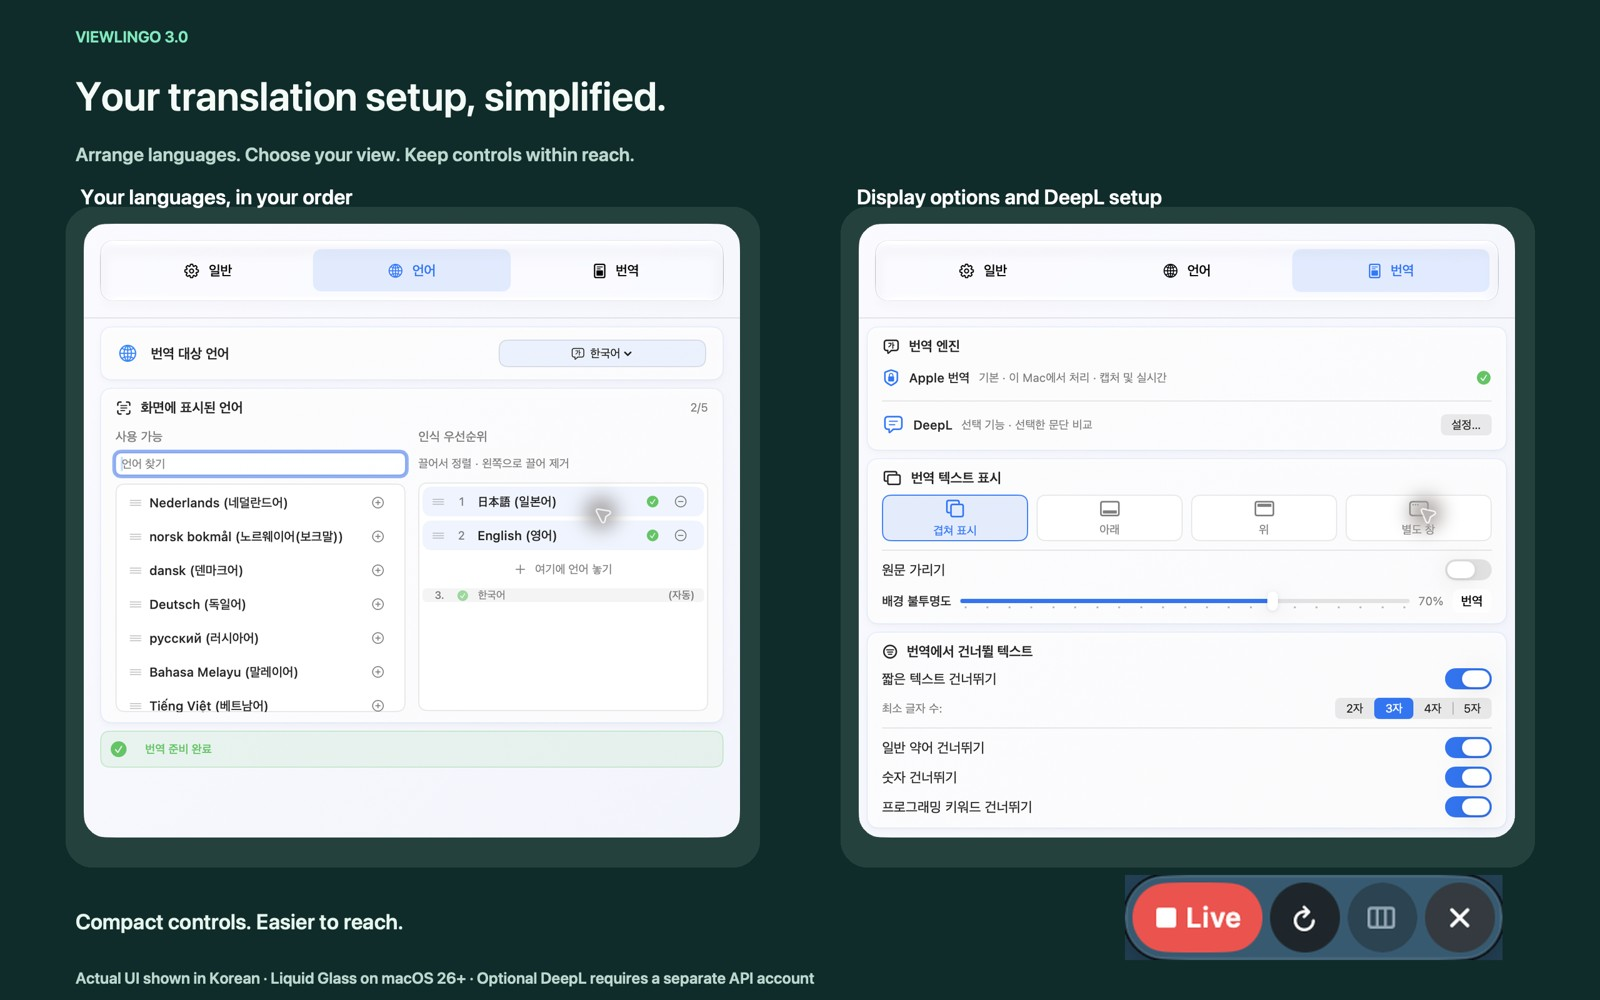
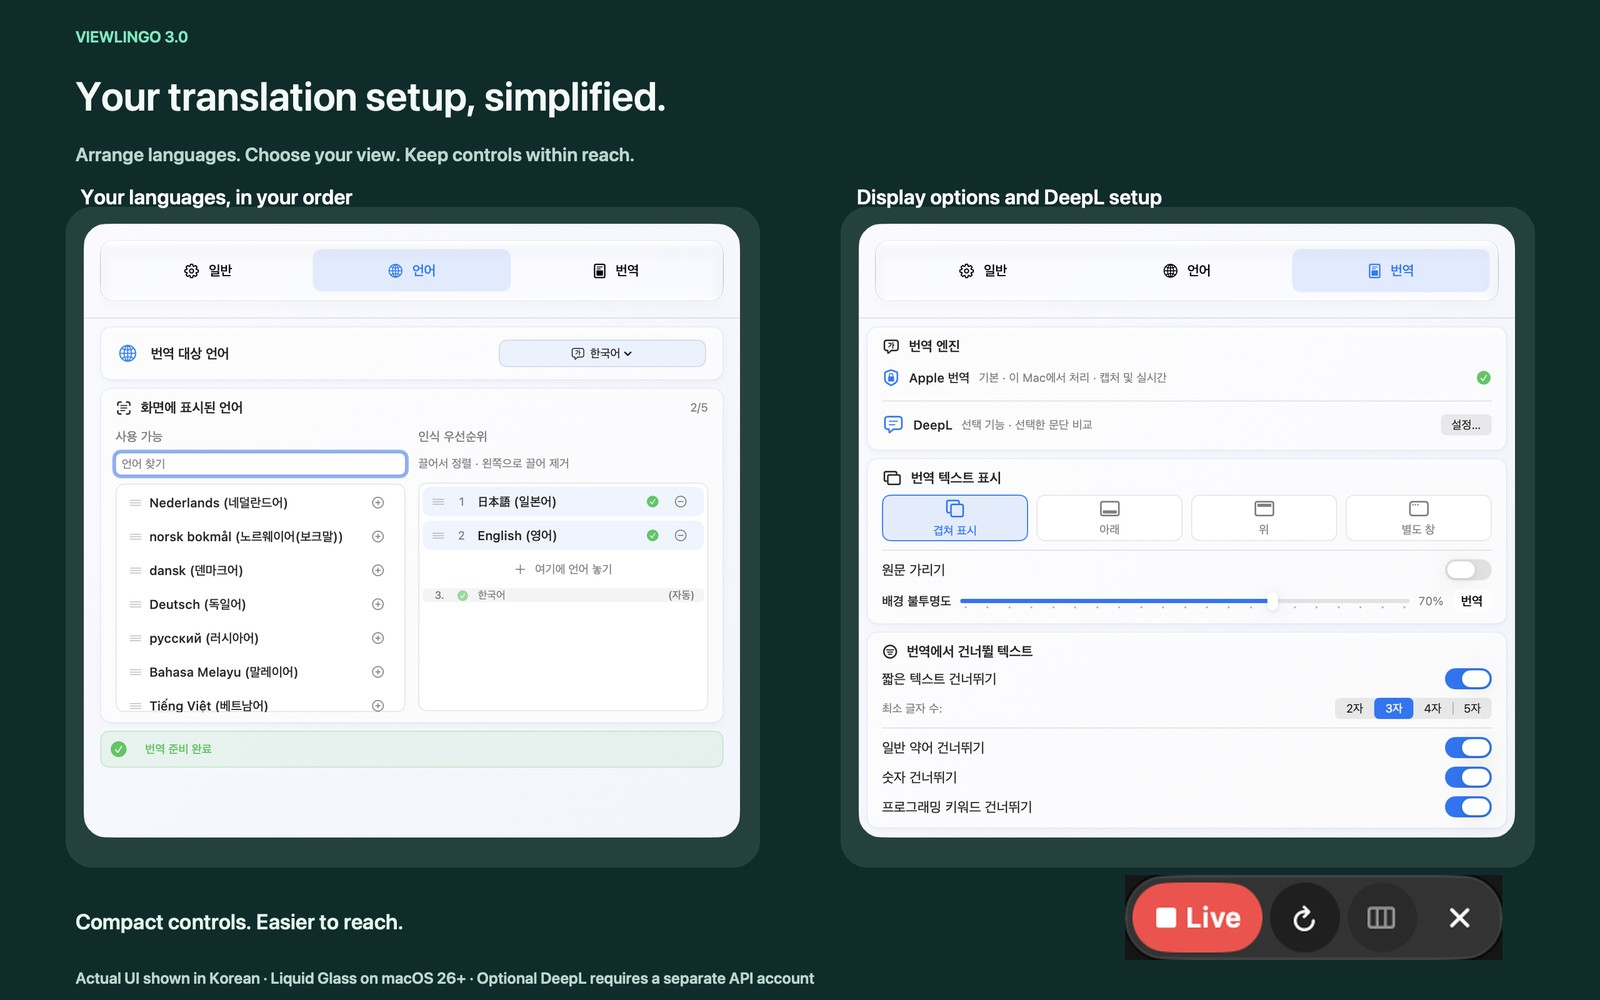
fix: refresh cursor-free v3 settings screenshots

Changed region(s): [[0.6875, 0.868, 0.9375, 0.961], [0.3438, 0.496, 0.4062, 0.527], [0.875, 0.496, 0.9062, 0.527]]

diff --git a/ja/index.html b/ja/index.html
@@ -91,7 +91,7 @@
       <p class="eyebrow">ViewLingo 3.0で登場予定</p><h2>選べる翻訳、わかりやすい設定。</h2><p class="v3-intro">Appleの翻訳は引き続きMac上で処理します。別の訳が必要なときだけ、ご自身のDeepL接続で選んだ文章を比較できます。</p>
       <ul class="v3-benefits"><li>ビューファインダーや履歴から比較を開く。</li><li>送信する文脈と用語集の表記を自分で選ぶ。</li><li>言語をドラッグで並べ、訳文の表示位置を選ぶ。</li></ul>
       <div class="v3-media"><figure><video controls playsinline preload="none" poster="../assets/acquisition/20261028-v3/en-US/poster.jpg" width="1920" height="1080" aria-label="選べる翻訳、わかりやすい設定。"><source src="../assets/acquisition/20261028-v3/en-US/comparison.mp4?v=2026102802" type="video/mp4"></video><figcaption>AppleとDeepLの実際の結果 · 以前の3.0 UIを含む編集映像 · 韓国語UI・英語字幕</figcaption></figure>
-      <figure><a href="../assets/acquisition/20261028-v3/en-US/settings.jpg"><img src="../assets/acquisition/20261028-v3/en-US/settings.jpg" width="1600" height="1000" loading="lazy" alt="現在の設定とコンパクトなツールバー · 韓国語UI・英語の説明"></a><figcaption>現在の設定とコンパクトなツールバー · 韓国語UI・英語の説明</figcaption></figure></div>
+      <figure><a href="../assets/acquisition/20261028-v3/en-US/settings.jpg?v=2026102803"><img src="../assets/acquisition/20261028-v3/en-US/settings.jpg?v=2026102803" width="1600" height="1000" loading="lazy" alt="現在の設定とコンパクトなツールバー · 韓国語UI・英語の説明"></a><figcaption>現在の設定とコンパクトなツールバー · 韓国語UI・英語の説明</figcaption></figure></div>
       <p class="v3-note">DeepLは任意機能です。ご自身のAPIアカウントとインターネット接続が必要で、別途利用料金が発生する場合があります。LiveはMac上で処理します。ネイティブLiquid GlassはmacOS 26以降に対応。これは3.0のプレビューです。提供中のバージョンはApp Storeでご確認ください。</p>
     </div></section>
     <section class="try-demo" id="try">

diff --git a/ko/index.html b/ko/index.html
@@ -91,7 +91,7 @@
       <p class="eyebrow">ViewLingo 3.0 출시 예정</p><h2>번역의 선택지는 넓게, 설정은 쉽게.</h2><p class="v3-intro">Apple 번역은 계속 Mac에서 처리합니다. 다른 결과가 필요할 때만 원하는 문장을 자신의 DeepL 연결로 비교하세요.</p>
       <ul class="v3-benefits"><li>뷰파인더나 번역 기록에서 바로 비교를 엽니다.</li><li>보낼 문맥과 용어집의 지정 표기를 직접 선택합니다.</li><li>언어를 끌어 정리하고 번역 표시 위치를 고릅니다.</li></ul>
       <div class="v3-media"><figure><video controls playsinline preload="none" poster="../assets/acquisition/20261028-v3/ko/poster.jpg" width="1920" height="1080" aria-label="번역의 선택지는 넓게, 설정은 쉽게."><source src="../assets/acquisition/20261028-v3/ko/comparison.mp4?v=2026102802" type="video/mp4"></video><figcaption>실제 Apple·DeepL 결과 · 이전 3.0 UI를 포함한 장면 편집 · 속도 실측 아님</figcaption></figure>
-      <figure><a href="../assets/acquisition/20261028-v3/ko/settings.jpg"><img src="../assets/acquisition/20261028-v3/ko/settings.jpg" width="1600" height="1000" loading="lazy" alt="현재 설정과 간결한 뷰파인더 도구막대 · 실제 한국어 UI"></a><figcaption>현재 설정과 간결한 뷰파인더 도구막대 · 실제 한국어 UI</figcaption></figure></div>
+      <figure><a href="../assets/acquisition/20261028-v3/ko/settings.jpg?v=2026102803"><img src="../assets/acquisition/20261028-v3/ko/settings.jpg?v=2026102803" width="1600" height="1000" loading="lazy" alt="현재 설정과 간결한 뷰파인더 도구막대 · 실제 한국어 UI"></a><figcaption>현재 설정과 간결한 뷰파인더 도구막대 · 실제 한국어 UI</figcaption></figure></div>
       <p class="v3-note">DeepL은 선택 기능입니다. 자신의 API 계정과 인터넷이 필요하며 별도 서비스 요금이 적용될 수 있습니다. Live는 Mac에서 처리합니다. 네이티브 Liquid Glass는 macOS 26 이상에서 제공됩니다. 3.0 미리보기이며, 현재 제공 버전은 App Store에서 확인해 주세요.</p>
     </div></section>
     <section class="try-demo" id="try">

diff --git a/zh-hant/index.html b/zh-hant/index.html
@@ -91,7 +91,7 @@
       <p class="eyebrow">ViewLingo 3.0 即將推出</p><h2>更多翻譯選擇，更清晰的設定。</h2><p class="v3-intro">Apple 翻譯繼續在 Mac 上處理。需要另一種結果時，才透過自己的 DeepL 連線比較所選段落。</p>
       <ul class="v3-benefits"><li>從觀景窗或歷史記錄開啟翻譯比較。</li><li>自行選取要傳送的前後文與詞彙表用語。</li><li>拖曳排列語言，選擇譯文顯示位置。</li></ul>
       <div class="v3-media"><figure><video controls playsinline preload="none" poster="../assets/acquisition/20261028-v3/zh-Hant/poster.jpg" width="1920" height="1080" aria-label="更多翻譯選擇，更清晰的設定。"><source src="../assets/acquisition/20261028-v3/zh-Hant/comparison.mp4?v=2026102802" type="video/mp4"></video><figcaption>Apple 與 DeepL 的實際結果 · 剪輯包含較早的 3.0 介面 · 韓文介面、繁體中文字幕</figcaption></figure>
-      <figure><a href="../assets/acquisition/20261028-v3/zh-Hant/settings.jpg"><img src="../assets/acquisition/20261028-v3/zh-Hant/settings.jpg" width="1600" height="1000" loading="lazy" alt="目前設定與精簡觀景窗工具列 · 韓文介面、繁體中文說明"></a><figcaption>目前設定與精簡觀景窗工具列 · 韓文介面、繁體中文說明</figcaption></figure></div>
+      <figure><a href="../assets/acquisition/20261028-v3/zh-Hant/settings.jpg?v=2026102803"><img src="../assets/acquisition/20261028-v3/zh-Hant/settings.jpg?v=2026102803" width="1600" height="1000" loading="lazy" alt="目前設定與精簡觀景窗工具列 · 韓文介面、繁體中文說明"></a><figcaption>目前設定與精簡觀景窗工具列 · 韓文介面、繁體中文說明</figcaption></figure></div>
       <p class="v3-note">DeepL 為選用功能，需自己的 API 帳號與網路，可能產生額外服務費用。Live 繼續在 Mac 上處理。原生 Liquid Glass 需 macOS 26 或以上版本。這是 3.0 預覽，目前可用版本請查看 App Store。</p>
     </div></section>
     <section class="try-demo" id="try">

diff --git a/zh-hans/index.html b/zh-hans/index.html
@@ -91,7 +91,7 @@
       <p class="eyebrow">ViewLingo 3.0 即将推出</p><h2>更多翻译选择，更清晰的设置。</h2><p class="v3-intro">Apple 翻译继续在 Mac 上处理。需要另一种结果时，才通过自己的 DeepL 连接比较所选段落。</p>
       <ul class="v3-benefits"><li>从取景框或历史记录打开翻译比较。</li><li>自行选择要发送的上下文和词汇表用语。</li><li>拖曳排列语言，选择译文显示位置。</li></ul>
       <div class="v3-media"><figure><video controls playsinline preload="none" poster="../assets/acquisition/20261028-v3/en-US/poster.jpg" width="1920" height="1080" aria-label="更多翻译选择，更清晰的设置。"><source src="../assets/acquisition/20261028-v3/en-US/comparison.mp4?v=2026102802" type="video/mp4"></video><figcaption>Apple 与 DeepL 的实际结果 · 剪辑包含较早的 3.0 界面 · 韩文界面、英文字幕</figcaption></figure>
-      <figure><a href="../assets/acquisition/20261028-v3/en-US/settings.jpg"><img src="../assets/acquisition/20261028-v3/en-US/settings.jpg" width="1600" height="1000" loading="lazy" alt="当前设置与精简取景框工具栏 · 韩文界面、英文说明"></a><figcaption>当前设置与精简取景框工具栏 · 韩文界面、英文说明</figcaption></figure></div>
+      <figure><a href="../assets/acquisition/20261028-v3/en-US/settings.jpg?v=2026102803"><img src="../assets/acquisition/20261028-v3/en-US/settings.jpg?v=2026102803" width="1600" height="1000" loading="lazy" alt="当前设置与精简取景框工具栏 · 韩文界面、英文说明"></a><figcaption>当前设置与精简取景框工具栏 · 韩文界面、英文说明</figcaption></figure></div>
       <p class="v3-note">DeepL 为可选功能，需自己的 API 账号和网络，可能产生额外服务费用。Live 继续在 Mac 上处理。原生 Liquid Glass 需 macOS 26 或更高版本。这是 3.0 预览，当前可用版本请查看 App Store。</p>
     </div></section>
     <section class="try-demo" id="try">

diff --git a/index.html b/index.html
@@ -93,7 +93,7 @@
       <p class="eyebrow">Coming in ViewLingo 3.0</p><h2>More choice. A clearer setup.</h2><p class="v3-intro">Apple keeps translating on your Mac. When you want another result, compare a selected passage with your own DeepL connection.</p>
       <ul class="v3-benefits"><li>Open comparison from a viewfinder or History.</li><li>Choose context and glossary wording before you send.</li><li>Drag languages into order and choose where translations appear.</li></ul>
       <div class="v3-media"><figure><video controls playsinline preload="none" poster="assets/acquisition/20261028-v3/en-US/poster.jpg" width="1920" height="1080" aria-label="More choice. A clearer setup."><source src="assets/acquisition/20261028-v3/en-US/comparison.mp4?v=2026102802" type="video/mp4"></video><figcaption>Actual Apple and DeepL results · Edited examples, including earlier 3.0 UI · UI shown in Korean</figcaption></figure>
-      <figure><a href="assets/acquisition/20261028-v3/en-US/settings.jpg"><img src="assets/acquisition/20261028-v3/en-US/settings.jpg" width="1600" height="1000" loading="lazy" alt="Current settings and compact viewfinder controls · UI shown in Korean"></a><figcaption>Current settings and compact viewfinder controls · UI shown in Korean</figcaption></figure></div>
+      <figure><a href="assets/acquisition/20261028-v3/en-US/settings.jpg?v=2026102803"><img src="assets/acquisition/20261028-v3/en-US/settings.jpg?v=2026102803" width="1600" height="1000" loading="lazy" alt="Current settings and compact viewfinder controls · UI shown in Korean"></a><figcaption>Current settings and compact viewfinder controls · UI shown in Korean</figcaption></figure></div>
       <p class="v3-note">DeepL is optional. It requires your own API account and internet; separate provider charges may apply. Live stays on your Mac. Native Liquid Glass requires macOS 26+. This is a preview of 3.0; check the App Store for the available version.</p>
     </div></section>
     <section class="try-demo" id="try">
